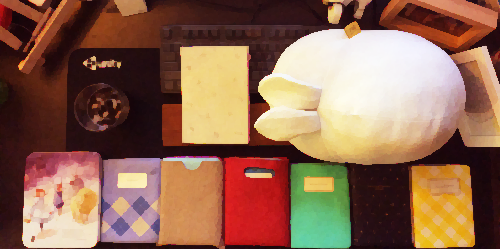
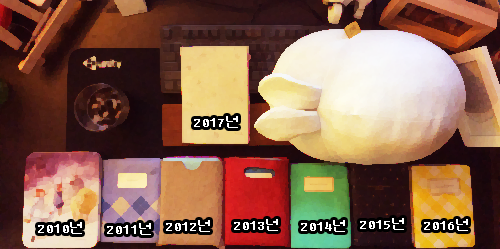
지하 갤러리 다이어리 관련 이미지 / 설명 수정

Changed region(s): [[0.21, 0.8434, 0.96, 0.9558], [0.36, 0.4498, 0.48, 0.5341], [0.06, 0.8715, 0.18, 0.9558]]

diff --git a/descHtml/introduce_diary.html b/descHtml/introduce_diary.html
@@ -6,5 +6,5 @@
 <script type="text/javascript" src='/js/pictureFrame.js'></script>
 
 <script type="text/javascript">
-	showPictureFrame('introduce6', 'diary', ' 제가 2010년부터 지금까지 써온, 쓰는 중인 플래너 겸 다이어리들입니다.\n 기준을 잡고 하루 하루를 생활하는 데 유용한 도구입니다.');
+	showPictureFrame('introduce6', 'diary', ' 제가 2010년부터 지금까지 써온, 쓰는 중인 플래너 겸 다이어리들입니다.\n 제 계획성의 한 축을 담당하고 있는 중요한 도구입니다.');
 </script>
